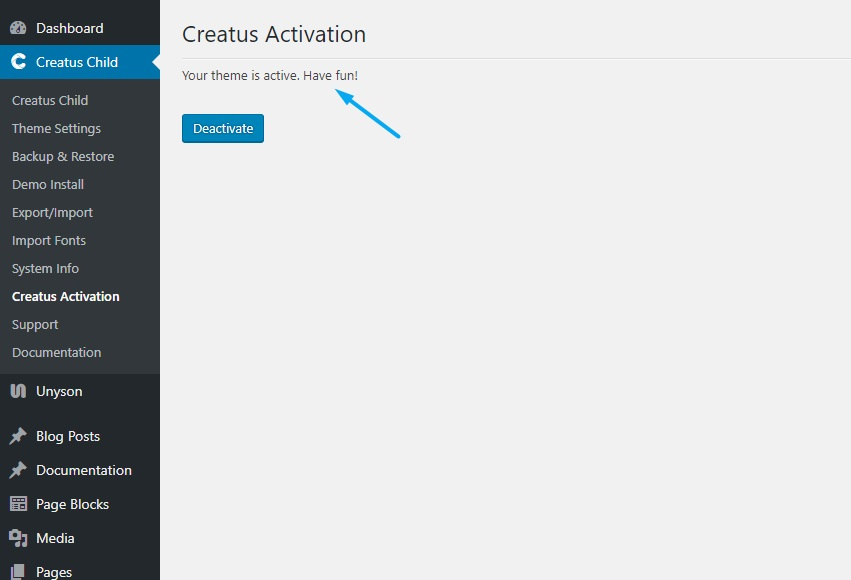
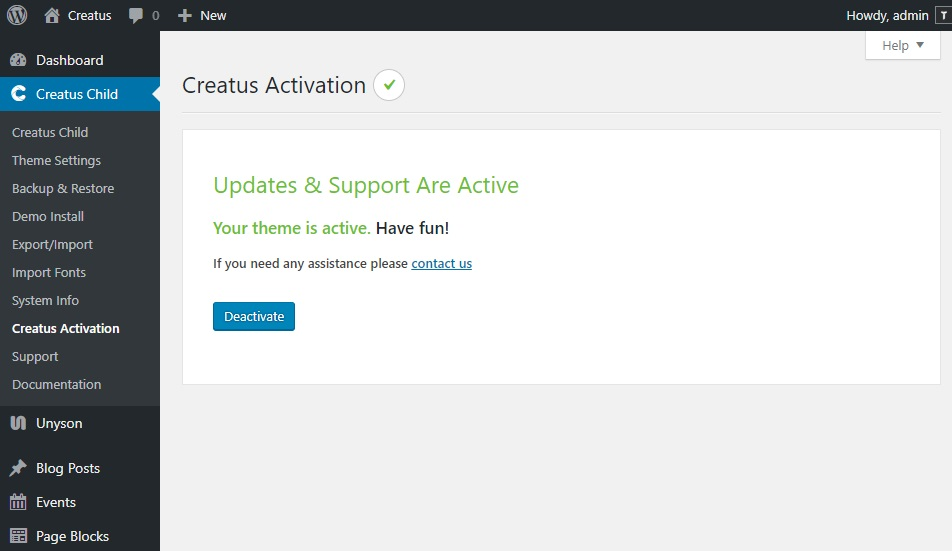
activations update

Changed region(s): [[0.0, 0.0, 1.0, 1.0], [0.4277, 0.1851, 0.4888, 0.2468]]

diff --git a/pages/getting-started/how-to-activate-creatus-theme-updates.md b/pages/getting-started/how-to-activate-creatus-theme-updates.md
@@ -17,18 +17,15 @@ To access  __Creatus Activation__ please go to __Creatus Child__ >  __Creatus Ac
 The activation page contains the __Enter your purchase code__ input and __Click to activate your theme__ button..
 
 <div class="thz-doc-image">
-<a class="thz-lightbox mfp-image" href="../../docs-media/activate-creatus-e.jpg" data-mfp-title="Creatus WordPress Theme Updates Activation" data-modal-size="large">
-	<img src="../../docs-media/activate-creatus-e.jpg" alt="Creatus WordPress Theme Updates Activation" />
+<a class="thz-lightbox mfp-image" href="../../docs-media/activate-creatus-e.jpg?v=2" data-mfp-title="Creatus WordPress Theme Updates Activation" data-modal-size="large">
+	<img src="../../docs-media/activate-creatus-e.jpg?v=2" alt="Creatus WordPress Theme Updates Activation" />
 </a>
 </div>
 
 
 ### Purcahse Code Info
 
-1. If you have purchased Creatus trough Themezly shop your purchase code is __Your Themezly username__ . 
-Just add your username in the __Enter your purchase code__ input box and click on the theme activation button.
-
-2. If you have purchased Creatus trough Envato marketplace your purchase code is available in your Envato download area. Download the purchase code file than add purchase code in the __Enter your purchase code__ input box and click on the activation button.   
+Yur purchase code is available in your Envato download area. Download the purchase code file than add purchase code in the __Enter your purchase code__ input box and click on the activation button.   
 
 <div class="thz-doc-image">
 <a class="thz-lightbox mfp-image" href="../../docs-media/creatus-purchase-code.jpg" data-mfp-title="Creatus WordPress Theme Envato Purchase Code" data-modal-size="large">
@@ -50,8 +47,8 @@ If you have previously logged in __[Themezly members](https://members.themezly.c
 After  successful login, your theme will be activated and you will be redirected back to your WordPress website __Creatus Activation__ page. Now you will see the __Your theme is active. Have fun!__ message and the button has changed to __Deactivate__. 
 
 <div class="thz-doc-image max">
-<a class="thz-lightbox mfp-image" href="../../docs-media/activate-creatus-5.jpg" data-mfp-title="Creatus WordPress Theme Activated" data-modal-size="large">
-	<img src="../../docs-media/activate-creatus-5.jpg" alt="Creatus WordPress Theme Activated" />
+<a class="thz-lightbox mfp-image" href="../../docs-media/activate-creatus-5.jpg?v=2" data-mfp-title="Creatus WordPress Theme Activated" data-modal-size="large">
+	<img src="../../docs-media/activate-creatus-5?v=2.jpg" alt="Creatus WordPress Theme Activated" />
 </a>
 </div>
 
